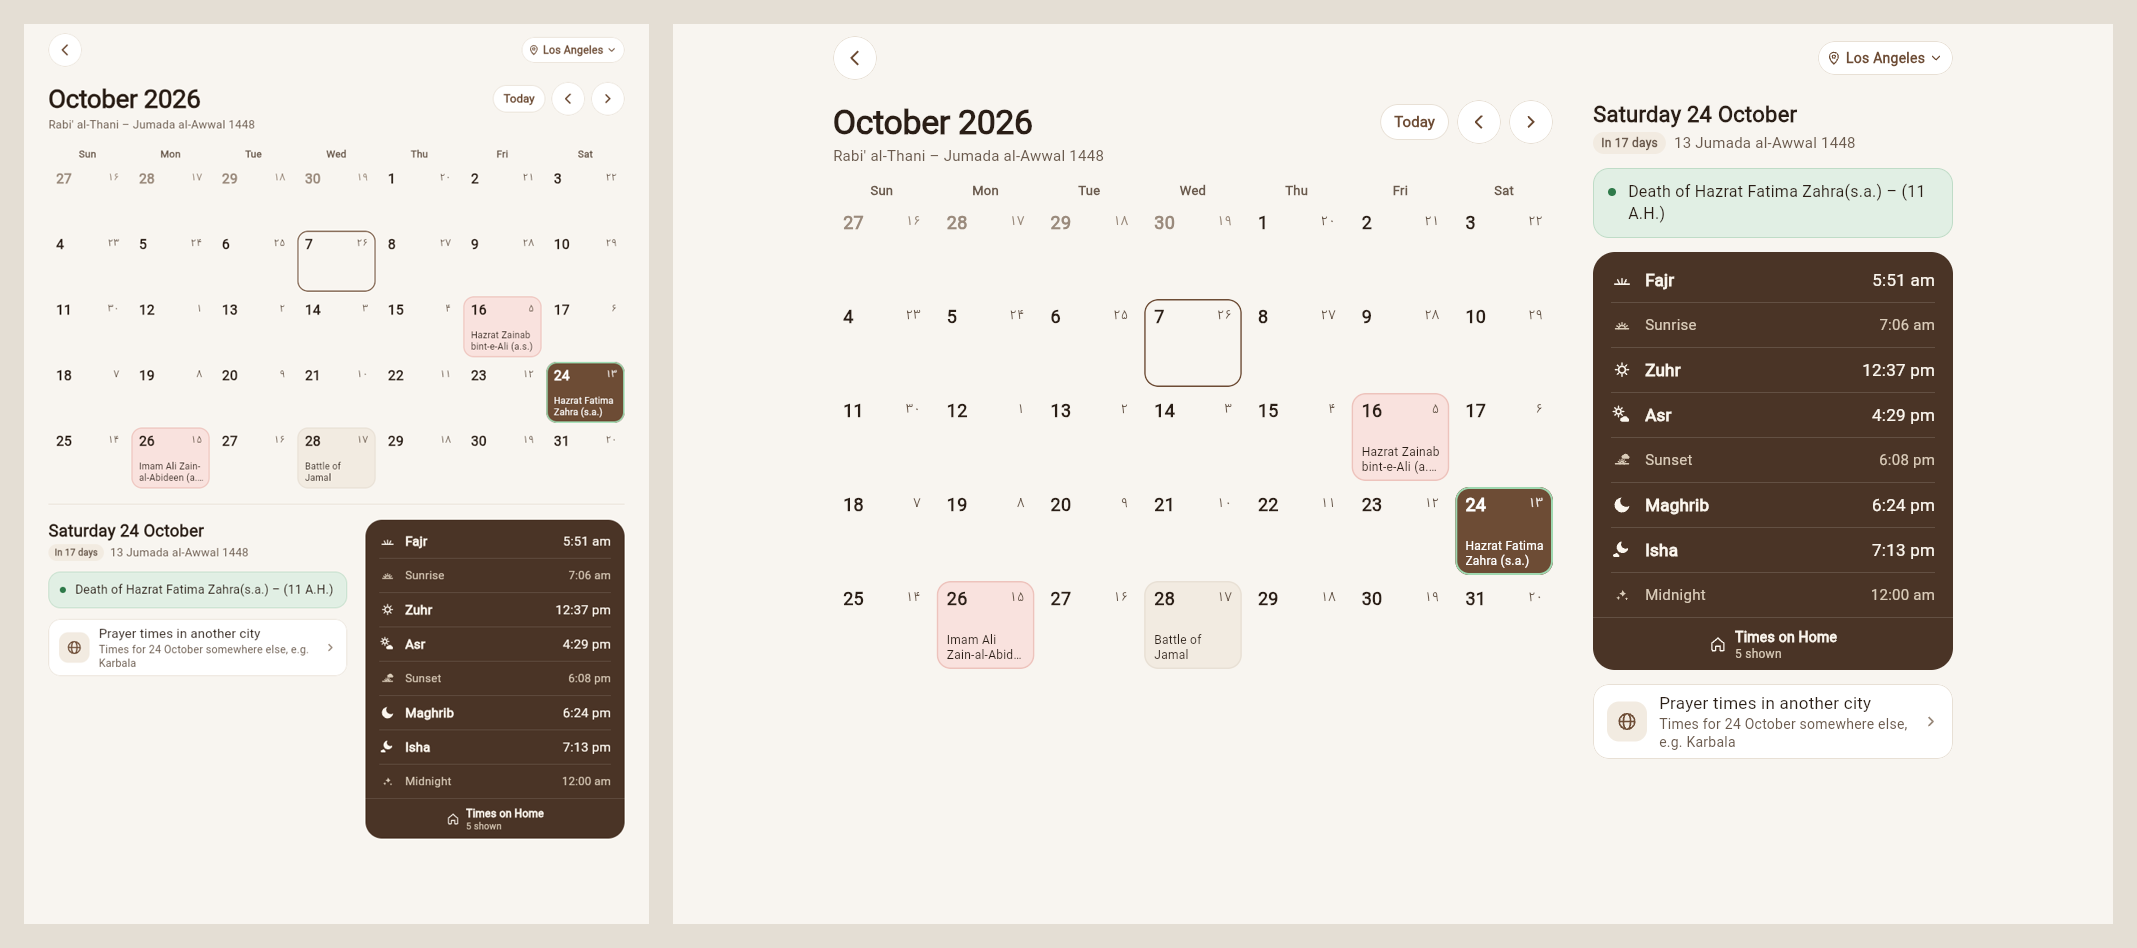
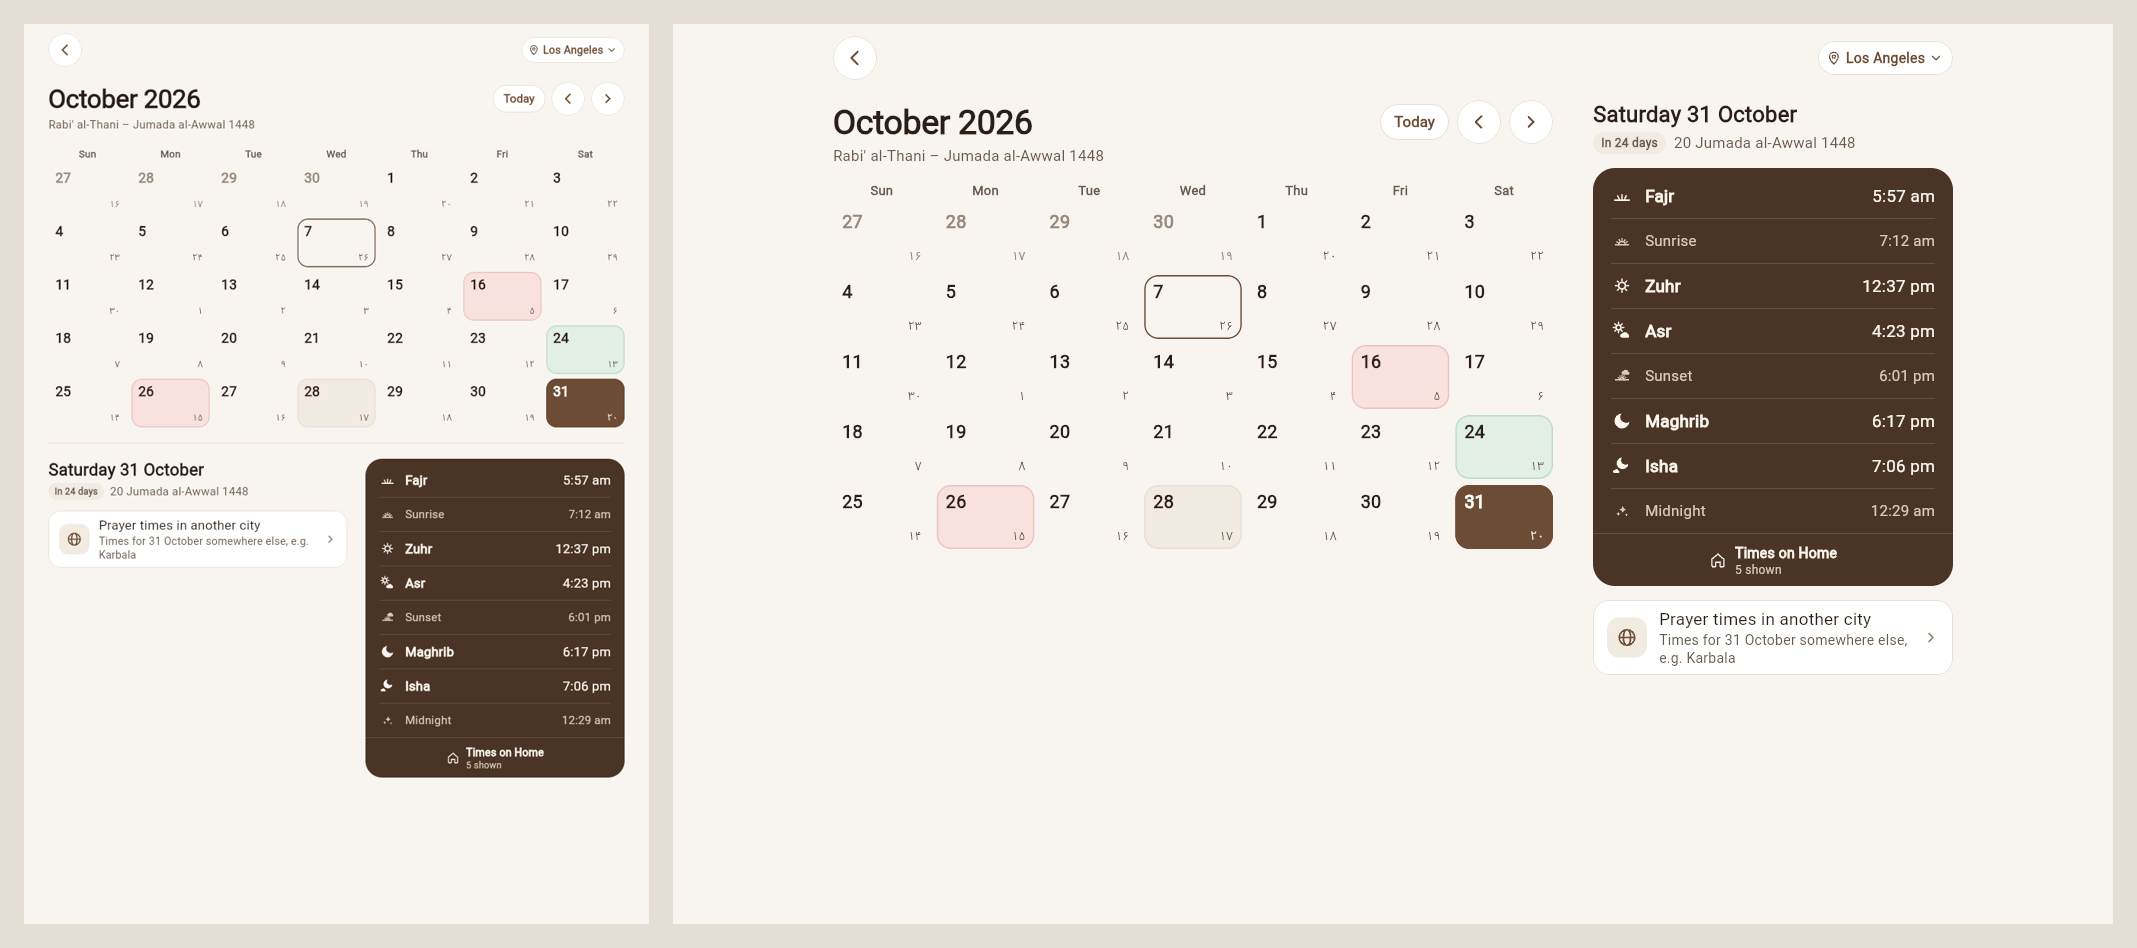
Keep wide calendar cells the same as the phone's
Tablet and web no longer write event names in the day cells: the cell
shows the date, the Hijri day and the event colour, as on a phone, and
the event's words stay in the picked day's card. Cells are 64 px tall
there.

Claude-Session: https://claude.ai/code/session_012xgo5z7wpc4mrA6oWZt5tv

diff --git a/lib/pages/calendar_page.dart b/lib/pages/calendar_page.dart
@@ -31,8 +31,7 @@ import '../utils/islamic_day.dart';
 /// On a phone everything is one column. On a tablet the month runs full
 /// width with the day and its times side by side under it; from desktop
 /// width the month sits on the left and the day in a column on the right.
-/// The wider layouts list the day's eight times top to bottom and name each
-/// event in its cell.
+/// The wider layouts list the day's eight times top to bottom.
 class CalendarPage extends StatefulWidget {
   const CalendarPage({
     super.key,
@@ -157,10 +156,10 @@ class _CalendarPageState extends State<CalendarPage> {
       today: today,
       cellHeight: switch (screen) {
         ScreenClass.phone => 52,
-        ScreenClass.tablet => 80,
-        ScreenClass.desktop => 88,
+        ScreenClass.tablet => 64,
+        ScreenClass.desktop => 64,
       },
-      namesEvents: !screen.isPhone,
+      wide: !screen.isPhone,
       hijriFor: _hijriFor,
       eventFor: _eventFor,
       onPick: _pick,
@@ -441,7 +440,7 @@ class _MonthGrid extends StatelessWidget {
     required this.selected,
     required this.today,
     required this.cellHeight,
-    required this.namesEvents,
+    required this.wide,
     required this.hijriFor,
     required this.eventFor,
     required this.onPick,
@@ -453,9 +452,8 @@ class _MonthGrid extends StatelessWidget {
   final DateTime today;
   final double cellHeight;
 
-  /// Writes each event's name in its cell, where there is room (tablet and
-  /// up).
-  final bool namesEvents;
+  /// Tablet and up: a little more room around the same cells.
+  final bool wide;
   final HijriCalendar Function(DateTime) hijriFor;
   final Map<String, dynamic>? Function(DateTime) eventFor;
   final ValueChanged<DateTime> onPick;
@@ -467,7 +465,7 @@ class _MonthGrid extends StatelessWidget {
     final lead = month.weekday % 7; // Sunday first
     final daysInMonth = DateTime(month.year, month.month + 1, 0).day;
     final weeks = ((lead + daysInMonth) / 7).ceil();
-    final gap = namesEvents ? 6.0 : 3.0;
+    final gap = wide ? 6.0 : 3.0;
 
     Widget row(List<Widget> cells) => Row(
           children: [
@@ -519,7 +517,7 @@ class _MonthGrid extends StatelessWidget {
                     hijri: hijriFor(day),
                     event: inMonth ? eventFor(day) : null,
                     height: cellHeight,
-                    wide: namesEvents,
+                    wide: wide,
                     inMonth: inMonth,
                     isSelected: _isSameDay(day, selected),
                     isToday: _isSameDay(day, today),
@@ -576,7 +574,6 @@ class _DayCell extends StatelessWidget {
     final strong = isSelected || isToday;
     final eventName =
         event == null ? '' : widgetEventText('${event!['content'] ?? ''}').name;
-    final name = wide ? eventName : '';
 
     final label = [
       DateFormat('d MMMM').format(day),
@@ -610,8 +607,8 @@ class _DayCell extends StatelessWidget {
             child: Stack(
               children: [
                 PositionedDirectional(
-                  top: wide ? 8 : 5,
-                  start: wide ? 10 : 7,
+                  top: wide ? 7 : 5,
+                  start: wide ? 9 : 7,
                   child: Text(
                     '${day.day}',
                     style: ShiaText.body.copyWith(
@@ -623,35 +620,17 @@ class _DayCell extends StatelessWidget {
                   ),
                 ),
                 PositionedDirectional(
-                  top: wide ? 9 : null,
-                  bottom: wide ? null : 4,
-                  end: wide ? 10 : 6,
+                  bottom: wide ? 6 : 4,
+                  end: wide ? 9 : 6,
                   child: Text(
                     convertNumberToUrdu('${hijri.hDay}'),
                     style: ShiaText.caption.copyWith(
-                      fontSize: wide ? 13 : 11,
-                      height: 13 / (wide ? 13 : 11),
+                      fontSize: wide ? 12 : 11,
+                      height: 13 / (wide ? 12 : 11),
                       color: muted,
                     ),
                   ),
                 ),
-                if (name.isNotEmpty)
-                  PositionedDirectional(
-                    start: 10,
-                    end: 8,
-                    bottom: 7,
-                    child: Text(
-                      name,
-                      maxLines: height >= 80 ? 2 : 1,
-                      overflow: TextOverflow.ellipsis,
-                      style: ShiaText.caption.copyWith(
-                        fontSize: 12,
-                        height: 15 / 12,
-                        fontWeight: FontWeight.w500,
-                        color: isSelected ? colors.onAccent : colors.text,
-                      ),
-                    ),
-                  ),
               ],
             ),
           ),

diff --git a/docs/design/mockups/R5-Calendar.dc.html b/docs/design/mockups/R5-Calendar.dc.html
@@ -232,7 +232,7 @@ class Component extends DCLogic {
     const corners = (this.props.dateLayout ?? 'corners') === 'corners';
     const tint = (this.props.eventMark ?? 'tint') === 'tint';
     const wide = LAYOUT !== 'phone';
-    const cellH = LAYOUT === 'web' ? 88 : LAYOUT === 'tablet' ? 80 : 52;
+    const cellH = wide ? 64 : 52;
     const first = new Date(Date.UTC(view.y, view.m - 1, 1));
     const daysIn = new Date(Date.UTC(view.y, view.m, 0)).getUTCDate();
     const lead = first.getUTCDay();
@@ -255,6 +255,7 @@ class Component extends DCLogic {
       if (ev && tint && !isSel) dot = 'transparent';
       const base = 'position: relative; height: ' + cellH + 'px; box-sizing: border-box; padding: 0; border-radius: ' + (wide ? 14 : 12) + 'px; border: ' + (isSel && ev && tint ? 2 : 1.5) + 'px solid ' + border + '; background: ' + bg + '; color: ' + fg + '; cursor: pointer; transition: background 0.15s; overflow: hidden; text-align: left';
       const useCorners = corners || wide;
+      const big = false; // wide cells match the phone's
       cells.push({
         day: day.d,
         hijri: persian(h.d),
@@ -265,12 +266,12 @@ class Component extends DCLogic {
           ? 'position: absolute; top: ' + (wide ? 8 : 5) + 'px; left: ' + (wide ? 10 : 7) + 'px; font-size: ' + (wide ? 18 : 16) + 'px; line-height: 20px; font-weight: ' + (isSel || isToday ? 700 : 600)
           : 'font-size: 17px; line-height: 20px; font-weight: ' + (isSel || isToday ? 700 : 500),
         hijriStyle: useCorners
-          ? 'position: absolute; ' + (wide ? 'top: 9px; right: 10px' : 'bottom: 4px; right: 6px') + '; font-size: ' + (wide ? 13 : 11) + 'px; line-height: 13px; color: ' + sub
+          ? 'position: absolute; ' + 'bottom: ' + (wide ? 6 : 4) + 'px; right: ' + (wide ? 9 : 6) + 'px' + '; font-size: ' + (wide ? 13 : 11) + 'px; line-height: 13px; color: ' + sub
           : 'font-size: 11px; line-height: 13px; color: ' + sub,
         dotStyle: useCorners
-          ? 'position: absolute; ' + (wide ? 'top: 13px; left: 36px' : 'top: 10px; right: 7px') + '; width: 6px; height: 6px; border-radius: 3px; background: ' + dot
+          ? 'position: absolute; ' + 'top: 10px; right: 7px' + '; width: 6px; height: 6px; border-radius: 3px; background: ' + dot
           : 'width: 5px; height: 5px; border-radius: 3px; background: ' + dot,
-        evName: wide && ev ? ev.short : '',
+        evName: '',
         evStyle: 'position: absolute; left: 10px; right: 8px; bottom: 7px; font-size: 12px; line-height: 15px; font-weight: 500; color: ' + (isSel ? '#FBF6EE' : '#2A1E16') + '; display: -webkit-box; -webkit-line-clamp: 2; -webkit-box-orient: vertical; overflow: hidden',
         pick: () => this.pick(day)
       });

diff --git a/docs/design/mockups/T-Calendar-R5.dc.html b/docs/design/mockups/T-Calendar-R5.dc.html
@@ -227,7 +227,7 @@ class Component extends DCLogic {
     const corners = (this.props.dateLayout ?? 'corners') === 'corners';
     const tint = (this.props.eventMark ?? 'tint') === 'tint';
     const wide = LAYOUT !== 'phone';
-    const cellH = LAYOUT === 'web' ? 88 : LAYOUT === 'tablet' ? 80 : 52;
+    const cellH = wide ? 64 : 52;
     const first = new Date(Date.UTC(view.y, view.m - 1, 1));
     const daysIn = new Date(Date.UTC(view.y, view.m, 0)).getUTCDate();
     const lead = first.getUTCDay();
@@ -250,6 +250,7 @@ class Component extends DCLogic {
       if (ev && tint && !isSel) dot = 'transparent';
       const base = 'position: relative; height: ' + cellH + 'px; box-sizing: border-box; padding: 0; border-radius: ' + (wide ? 14 : 12) + 'px; border: ' + (isSel && ev && tint ? 2 : 1.5) + 'px solid ' + border + '; background: ' + bg + '; color: ' + fg + '; cursor: pointer; transition: background 0.15s; overflow: hidden; text-align: left';
       const useCorners = corners || wide;
+      const big = false; // wide cells match the phone's
       cells.push({
         day: day.d,
         hijri: persian(h.d),
@@ -260,12 +261,12 @@ class Component extends DCLogic {
           ? 'position: absolute; top: ' + (wide ? 8 : 5) + 'px; left: ' + (wide ? 10 : 7) + 'px; font-size: ' + (wide ? 18 : 16) + 'px; line-height: 20px; font-weight: ' + (isSel || isToday ? 700 : 600)
           : 'font-size: 17px; line-height: 20px; font-weight: ' + (isSel || isToday ? 700 : 500),
         hijriStyle: useCorners
-          ? 'position: absolute; ' + (wide ? 'top: 9px; right: 10px' : 'bottom: 4px; right: 6px') + '; font-size: ' + (wide ? 13 : 11) + 'px; line-height: 13px; color: ' + sub
+          ? 'position: absolute; ' + 'bottom: ' + (wide ? 6 : 4) + 'px; right: ' + (wide ? 9 : 6) + 'px' + '; font-size: ' + (wide ? 13 : 11) + 'px; line-height: 13px; color: ' + sub
           : 'font-size: 11px; line-height: 13px; color: ' + sub,
         dotStyle: useCorners
-          ? 'position: absolute; ' + (wide ? 'top: 13px; left: 36px' : 'top: 10px; right: 7px') + '; width: 6px; height: 6px; border-radius: 3px; background: ' + dot
+          ? 'position: absolute; ' + 'top: 10px; right: 7px' + '; width: 6px; height: 6px; border-radius: 3px; background: ' + dot
           : 'width: 5px; height: 5px; border-radius: 3px; background: ' + dot,
-        evName: wide && ev ? ev.short : '',
+        evName: '',
         evStyle: 'position: absolute; left: 10px; right: 8px; bottom: 7px; font-size: 12px; line-height: 15px; font-weight: 500; color: ' + (isSel ? '#FBF6EE' : '#2A1E16') + '; display: -webkit-box; -webkit-line-clamp: 2; -webkit-box-orient: vertical; overflow: hidden',
         pick: () => this.pick(day)
       });

diff --git a/docs/design/mockups/W-Calendar-R5.dc.html b/docs/design/mockups/W-Calendar-R5.dc.html
@@ -227,7 +227,7 @@ class Component extends DCLogic {
     const corners = (this.props.dateLayout ?? 'corners') === 'corners';
     const tint = (this.props.eventMark ?? 'tint') === 'tint';
     const wide = LAYOUT !== 'phone';
-    const cellH = LAYOUT === 'web' ? 88 : LAYOUT === 'tablet' ? 80 : 52;
+    const cellH = wide ? 64 : 52;
     const first = new Date(Date.UTC(view.y, view.m - 1, 1));
     const daysIn = new Date(Date.UTC(view.y, view.m, 0)).getUTCDate();
     const lead = first.getUTCDay();
@@ -250,6 +250,7 @@ class Component extends DCLogic {
       if (ev && tint && !isSel) dot = 'transparent';
       const base = 'position: relative; height: ' + cellH + 'px; box-sizing: border-box; padding: 0; border-radius: ' + (wide ? 14 : 12) + 'px; border: ' + (isSel && ev && tint ? 2 : 1.5) + 'px solid ' + border + '; background: ' + bg + '; color: ' + fg + '; cursor: pointer; transition: background 0.15s; overflow: hidden; text-align: left';
       const useCorners = corners || wide;
+      const big = false; // wide cells match the phone's
       cells.push({
         day: day.d,
         hijri: persian(h.d),
@@ -260,12 +261,12 @@ class Component extends DCLogic {
           ? 'position: absolute; top: ' + (wide ? 8 : 5) + 'px; left: ' + (wide ? 10 : 7) + 'px; font-size: ' + (wide ? 18 : 16) + 'px; line-height: 20px; font-weight: ' + (isSel || isToday ? 700 : 600)
           : 'font-size: 17px; line-height: 20px; font-weight: ' + (isSel || isToday ? 700 : 500),
         hijriStyle: useCorners
-          ? 'position: absolute; ' + (wide ? 'top: 9px; right: 10px' : 'bottom: 4px; right: 6px') + '; font-size: ' + (wide ? 13 : 11) + 'px; line-height: 13px; color: ' + sub
+          ? 'position: absolute; ' + 'bottom: ' + (wide ? 6 : 4) + 'px; right: ' + (wide ? 9 : 6) + 'px' + '; font-size: ' + (wide ? 13 : 11) + 'px; line-height: 13px; color: ' + sub
           : 'font-size: 11px; line-height: 13px; color: ' + sub,
         dotStyle: useCorners
-          ? 'position: absolute; ' + (wide ? 'top: 13px; left: 36px' : 'top: 10px; right: 7px') + '; width: 6px; height: 6px; border-radius: 3px; background: ' + dot
+          ? 'position: absolute; ' + 'top: 10px; right: 7px' + '; width: 6px; height: 6px; border-radius: 3px; background: ' + dot
           : 'width: 5px; height: 5px; border-radius: 3px; background: ' + dot,
-        evName: wide && ev ? ev.short : '',
+        evName: '',
         evStyle: 'position: absolute; left: 10px; right: 8px; bottom: 7px; font-size: 12px; line-height: 15px; font-weight: 500; color: ' + (isSel ? '#FBF6EE' : '#2A1E16') + '; display: -webkit-box; -webkit-line-clamp: 2; -webkit-box-orient: vertical; overflow: hidden',
         pick: () => this.pick(day)
       });

diff --git a/test/calendar_page_test.dart b/test/calendar_page_test.dart
@@ -148,7 +148,7 @@ void main() {
     expect(find.textContaining('Access to water was blocked'), findsOneWidget);
   });
 
-  testWidgets('wide layouts name each event in its day and list the times',
+  testWidgets('wide layouts keep cells as on a phone and list the times',
       (tester) async {
     lat = 51.5074;
     long = -0.1278;
@@ -157,7 +157,9 @@ void main() {
         initialDate: DateTime(2026, 6, 22),
         events: _markerTestEvents(1));
 
-    expect(find.text('Shab e Ashoor'), findsOneWidget);
+    // The colour marks the event; its words are only in the day's card.
+    expect(find.text('Shab e Ashoor'), findsNothing);
+    expect(_cellColor(tester, DateTime(2026, 6, 24)), const Color(0xFFF9E2DE));
     for (final name in ['Fajr', 'Sunrise', 'Midnight']) {
       expect(find.text(name), findsOneWidget);
     }

diff --git a/docs/DESIGN_SPEC.md b/docs/DESIGN_SPEC.md
@@ -331,11 +331,11 @@ it, its prayer times included (mockups `R5-Calendar`, `T-Calendar-R5`,
 - **Prayer times in another city** · "Times for 24 October somewhere
   else, e.g. Karbala": a card row opening the look-up city picker on that
   date. No footnote under it.
-- **Tablet:** the month full width (80 px cells that also name each
-  event), then the day, its event and the city row on the left and the
-  card on the right (340 px), listing all eight times top to bottom.
-  **Desktop and web:** the month on the left (88 px cells), the day in a
-  360 px column on the right with the same vertical card.
+- **Tablet:** the month full width, then the day, its event and the city
+  row on the left and the card on the right (340 px), listing all eight
+  times top to bottom. **Desktop and web:** the month on the left, the day
+  in a 360 px column on the right with the same vertical card. The cells
+  are the phone's, 64 px tall: no event names in them on any screen.
 
 ### Azan
 Today's prayer notifications page, from Settings → Prayer times → Azan:
